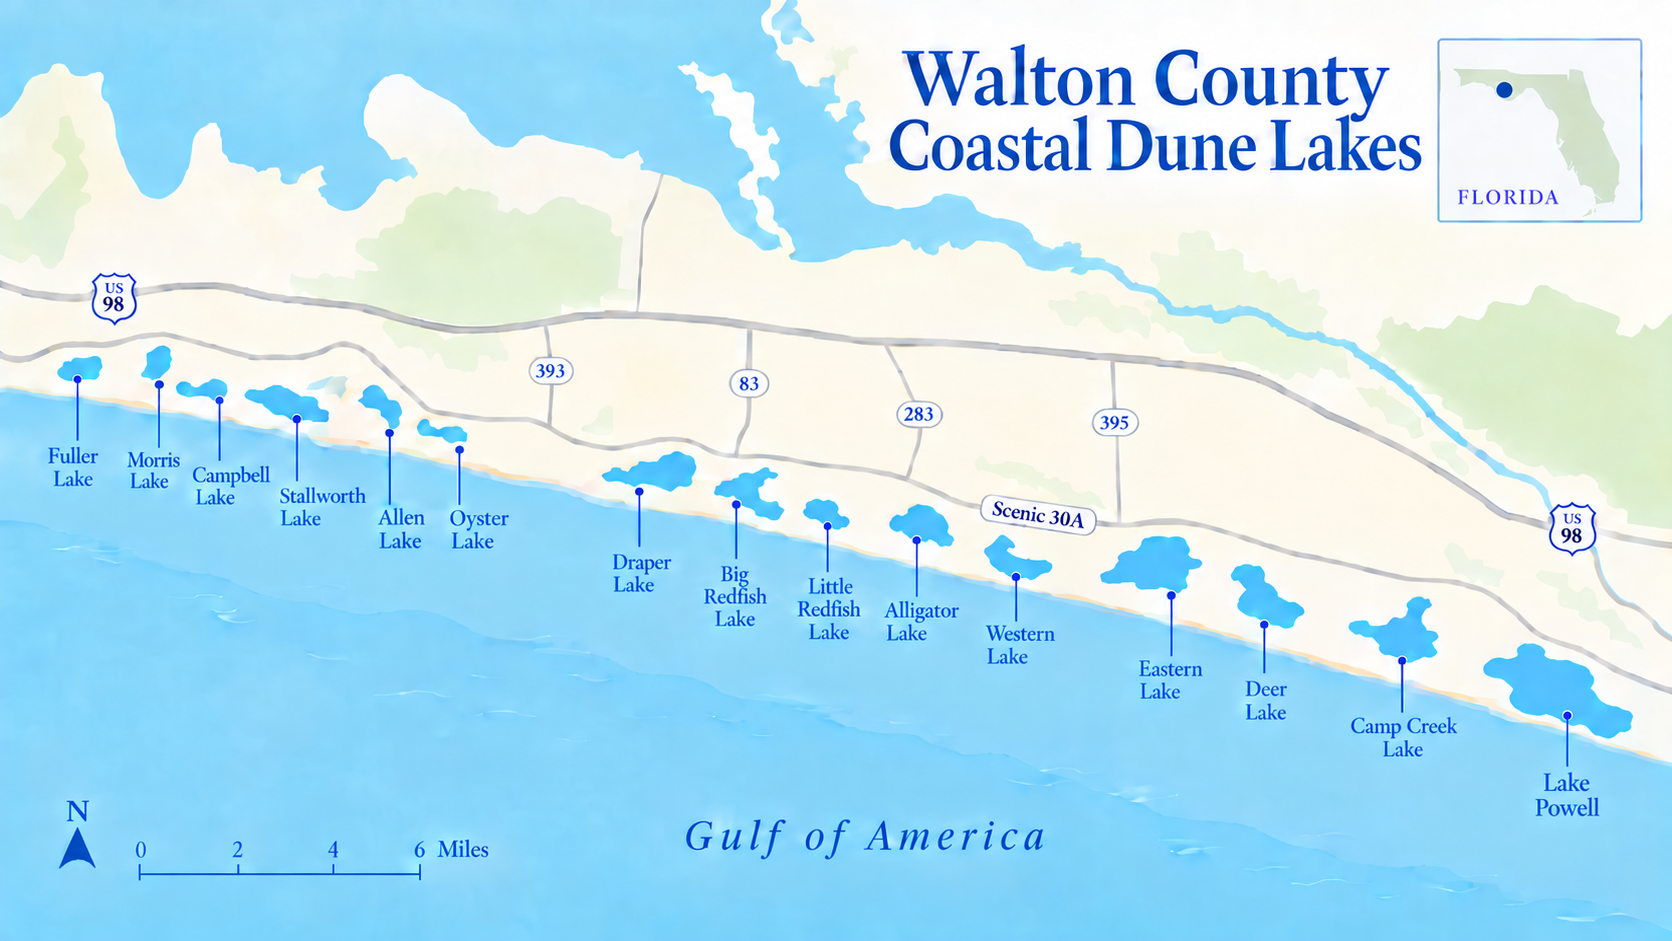
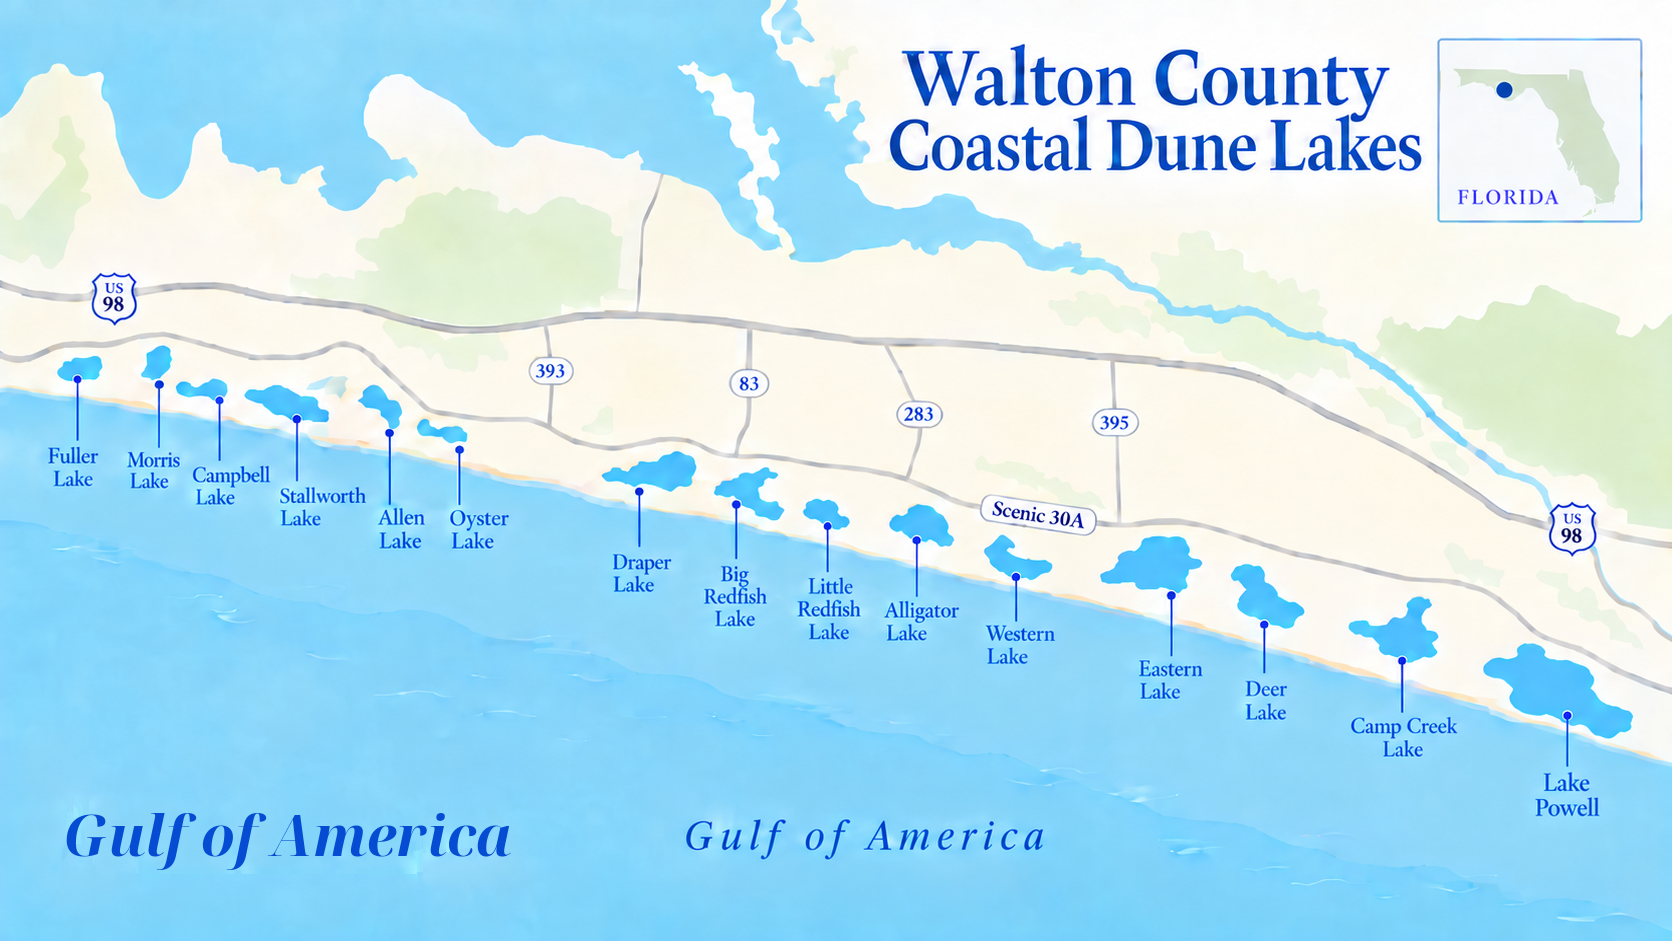
Add satellite map D-pad and rename Gulf of America
* Add a satellite map D-pad for pan and zoom

Left and right move along the coast, and up and down zoom the satellite photo on the homepage and the lakes index. The illustration map is unchanged.

* Rename the Gulf water label to Gulf of America

The satellite overlay and the illustrated map now say Gulf of America on the homepage and the lakes index.

---------

Changed region(s): [[0.0311, 0.8629, 0.311, 0.9245]]

diff --git a/site.js b/site.js
@@ -39,7 +39,67 @@
     var buttons = frame.querySelectorAll("[data-map-mode]");
     var panels = frame.querySelectorAll("[data-map-panel]");
     var scroll = frame.querySelector(".map-scroll");
+    var pad = frame.querySelector(".map-pad");
     if (!buttons.length || !panels.length) return;
+
+    var zoom = 1;
+
+    function prefersStill() {
+      return window.matchMedia("(prefers-reduced-motion: reduce)").matches;
+    }
+
+    function designWidth() {
+      return Math.max(1860, frame.clientWidth || 0);
+    }
+
+    function zoomSteps() {
+      var design = designWidth();
+      var view = scroll ? scroll.clientWidth : design;
+      var floor = Math.max(view, Math.min(design, 1020));
+      var fit = floor / design;
+      var list = [];
+      if (fit < 0.97) list.push(Math.round(fit * 1000) / 1000);
+      [1, 1.45, 2, 2.65].forEach(function (step) {
+        if (!list.length || step - list[list.length - 1] > 0.03) list.push(step);
+      });
+      return list;
+    }
+
+    function nearestStep(list, value) {
+      var best = 0;
+      var bestDist = Infinity;
+      list.forEach(function (step, index) {
+        var dist = Math.abs(step - value);
+        if (dist < bestDist) {
+          best = index;
+          bestDist = dist;
+        }
+      });
+      return best;
+    }
+
+    function applyZoomStyles() {
+      var sat = frame.querySelector(".satellite-map");
+      if (!sat || !scroll) return;
+      if (!frame.classList.contains("is-satellite") || Math.abs(zoom - 1) < 0.001) {
+        sat.style.width = "";
+        sat.style.minWidth = "";
+        scroll.style.maxHeight = "";
+        scroll.style.overflowY = "";
+        return;
+      }
+      var base = designWidth();
+      var width = Math.round(base * zoom);
+      sat.style.width = width + "px";
+      sat.style.minWidth = width + "px";
+      if (zoom > 1) {
+        scroll.style.maxHeight = Math.round(base * 1100 / 3000) + "px";
+        scroll.style.overflowY = "auto";
+      } else {
+        scroll.style.maxHeight = "";
+        scroll.style.overflowY = "";
+      }
+    }
 
     function updateEastEnd() {
       if (!scroll || !frame.classList.contains("is-satellite")) {
@@ -48,6 +108,61 @@
       }
       var remaining = scroll.scrollWidth - scroll.clientWidth - scroll.scrollLeft;
       frame.classList.toggle("is-east-end", remaining < 32);
+    }
+
+    function updatePad() {
+      if (!pad || !scroll) return;
+      var list = zoomSteps();
+      var index = nearestStep(list, zoom);
+      var maxLeft = Math.max(0, scroll.scrollWidth - scroll.clientWidth);
+      var west = pad.querySelector('[data-map-move="west"]');
+      var east = pad.querySelector('[data-map-move="east"]');
+      var zoomIn = pad.querySelector('[data-map-move="in"]');
+      var zoomOut = pad.querySelector('[data-map-move="out"]');
+      if (west) west.disabled = scroll.scrollLeft <= 2;
+      if (east) east.disabled = maxLeft - scroll.scrollLeft <= 2;
+      if (zoomIn) zoomIn.disabled = index >= list.length - 1;
+      if (zoomOut) zoomOut.disabled = index <= 0;
+    }
+
+    function syncMap() {
+      applyZoomStyles();
+      updateEastEnd();
+      updatePad();
+    }
+
+    function pan(direction) {
+      if (!scroll || !frame.classList.contains("is-satellite")) return;
+      var amount = Math.max(140, Math.round(scroll.clientWidth * 0.42));
+      scroll.scrollBy({
+        left: direction * amount,
+        behavior: prefersStill() ? "auto" : "smooth"
+      });
+    }
+
+    function changeZoom(direction) {
+      if (!scroll || !frame.classList.contains("is-satellite")) return;
+      var list = zoomSteps();
+      var index = nearestStep(list, zoom);
+      var next = index + direction;
+      if (next < 0 || next >= list.length) return;
+      var previous = zoom;
+      var anchorX = scroll.scrollLeft + scroll.clientWidth / 2;
+      var anchorY = scroll.scrollTop + scroll.clientHeight / 2;
+      zoom = list[next];
+      applyZoomStyles();
+      var ratio = previous ? zoom / previous : 1;
+      scroll.scrollLeft = anchorX * ratio - scroll.clientWidth / 2;
+      scroll.scrollTop = anchorY * ratio - scroll.clientHeight / 2;
+      updateEastEnd();
+      updatePad();
+    }
+
+    function moveMap(move) {
+      if (move === "west") pan(-1);
+      else if (move === "east") pan(1);
+      else if (move === "in") changeZoom(1);
+      else if (move === "out") changeZoom(-1);
     }
 
     function setMode(mode) {
@@ -68,14 +183,46 @@
         var active = frame.querySelector('[data-map-panel="' + mode + '"]');
         var label = active && active.getAttribute("data-map-label");
         if (label) scroll.setAttribute("aria-label", label);
-        window.requestAnimationFrame(updateEastEnd);
       }
+      window.requestAnimationFrame(syncMap);
     }
 
     if (scroll) {
-      scroll.addEventListener("scroll", updateEastEnd, { passive: true });
-      window.addEventListener("resize", updateEastEnd);
+      scroll.addEventListener("scroll", function () {
+        updateEastEnd();
+        updatePad();
+      }, { passive: true });
+      scroll.addEventListener("keydown", function (event) {
+        if (!frame.classList.contains("is-satellite")) return;
+        if (event.altKey || event.ctrlKey || event.metaKey) return;
+        var move = { ArrowLeft: "west", ArrowRight: "east", ArrowUp: "in", ArrowDown: "out" }[event.key];
+        if (!move) return;
+        event.preventDefault();
+        moveMap(move);
+      });
     }
+
+    if (pad) {
+      pad.addEventListener("click", function (event) {
+        var button = event.target.closest("button");
+        if (!button || button.disabled || !pad.contains(button)) return;
+        moveMap(button.getAttribute("data-map-move"));
+      });
+      pad.addEventListener("keydown", function (event) {
+        if (event.altKey || event.ctrlKey || event.metaKey) return;
+        var move = { ArrowLeft: "west", ArrowRight: "east", ArrowUp: "in", ArrowDown: "out" }[event.key];
+        if (!move) return;
+        event.preventDefault();
+        moveMap(move);
+      });
+    }
+
+    window.addEventListener("resize", function () {
+      if (frame.classList.contains("is-satellite") && zoom < 0.98) {
+        zoom = zoomSteps()[0];
+      }
+      syncMap();
+    });
 
     buttons.forEach(function (button) {
       button.addEventListener("click", function () {

diff --git a/index.html b/index.html
@@ -312,7 +312,22 @@
     </div>
   </div>
   <div class="map-viewport">
-  <div class="map-scroll" tabindex="0" role="region" aria-label="Illustrated map of the coastal dune lakes from west to east. Scroll horizontally on a small screen.">
+  <div class="map-pad" role="group" aria-label="Satellite map controls" aria-controls="coast-map-scroll">
+    <button type="button" class="map-pad-btn" data-map-move="in" aria-label="Zoom in">
+      <svg viewBox="0 0 12 12" aria-hidden="true" focusable="false"><path d="M6 2.2 10.2 8.2H1.8z"/></svg>
+    </button>
+    <button type="button" class="map-pad-btn" data-map-move="west" aria-label="Pan west">
+      <svg viewBox="0 0 12 12" aria-hidden="true" focusable="false"><path d="M2.2 6l6-4.2v8.4z"/></svg>
+    </button>
+    <button type="button" class="map-pad-btn" data-map-move="east" aria-label="Pan east">
+      <svg viewBox="0 0 12 12" aria-hidden="true" focusable="false"><path d="M9.8 6 3.8 10.2V1.8z"/></svg>
+    </button>
+    <button type="button" class="map-pad-btn" data-map-move="out" aria-label="Zoom out">
+      <svg viewBox="0 0 12 12" aria-hidden="true" focusable="false"><path d="M6 9.8 1.8 3.8h8.4z"/></svg>
+    </button>
+    <span class="map-pad-hub" aria-hidden="true"></span>
+  </div>
+  <div class="map-scroll" id="coast-map-scroll" tabindex="0" role="region" aria-label="Illustrated map of the coastal dune lakes from west to east. Scroll horizontally on a small screen.">
     <div class="coast-map illustrated-map" data-map-panel="illustration" data-map-label="Illustrated map of the coastal dune lakes from west to east. Scroll horizontally on a small screen.">
       <img src="images/dune-lakes-map.png" width="1672" height="941" alt="Illustrated map of Walton County’s coastal dune lakes, from Fuller Lake in the west to Lake Powell in the east." decoding="async">
       <svg class="lake-overlay" viewBox="0 0 1672 941" role="group" aria-label="Lakes on the map">
@@ -393,14 +408,14 @@
         </a>
       </svg>
     </div>
-    <div class="coast-map satellite-map" data-map-panel="satellite" data-map-label="Satellite map of the coastal dune lakes from Fuller Lake to Lake Powell. Scroll horizontally to reach the eastern lakes." hidden>
+    <div class="coast-map satellite-map" data-map-panel="satellite" data-map-label="Satellite map of the coastal dune lakes from Fuller Lake to Lake Powell. Scroll horizontally to reach the eastern lakes. Arrow keys pan and zoom when this map is focused." hidden>
       <picture>
         <source srcset="images/dune-lakes-satellite.webp" type="image/webp">
         <img src="images/dune-lakes-satellite.jpg" width="3000" height="1100" alt="Satellite view of Walton County’s coastal dune lakes, from Fuller Lake in the west to Lake Powell in the east." decoding="async">
       </picture>
       <svg class="lake-overlay" viewBox="0 0 3000 1100" role="group" aria-label="Lakes on the satellite map">
         <text class="map-place" x="2343" y="50" aria-hidden="true">Walton County Coastal Dune Lakes</text>
-        <text class="map-place gulf-label" x="70" y="1069" aria-hidden="true">Gulf of Mexico</text>
+        <text class="map-place gulf-label" x="70" y="1069" aria-hidden="true">Gulf of America</text>
         <a class="lake-link" data-lake="fuller" href="lakes/fuller/">
           <path class="lake-hit" d="M 124 96 L 107 96 L 108 105 L 100 113 L 100 128 L 92 139 L 117 135 L 123 130 L 123 121 L 130 117 Z"/>
           <rect class="lake-hit" x="23" y="161" width="109" height="33"/>

diff --git a/lakes/index.html b/lakes/index.html
@@ -200,7 +200,22 @@
     </div>
   </div>
   <div class="map-viewport">
-  <div class="map-scroll" tabindex="0" role="region" aria-label="Illustrated map of the coastal dune lakes from west to east.">
+  <div class="map-pad" role="group" aria-label="Satellite map controls" aria-controls="coast-map-scroll">
+    <button type="button" class="map-pad-btn" data-map-move="in" aria-label="Zoom in">
+      <svg viewBox="0 0 12 12" aria-hidden="true" focusable="false"><path d="M6 2.2 10.2 8.2H1.8z"/></svg>
+    </button>
+    <button type="button" class="map-pad-btn" data-map-move="west" aria-label="Pan west">
+      <svg viewBox="0 0 12 12" aria-hidden="true" focusable="false"><path d="M2.2 6l6-4.2v8.4z"/></svg>
+    </button>
+    <button type="button" class="map-pad-btn" data-map-move="east" aria-label="Pan east">
+      <svg viewBox="0 0 12 12" aria-hidden="true" focusable="false"><path d="M9.8 6 3.8 10.2V1.8z"/></svg>
+    </button>
+    <button type="button" class="map-pad-btn" data-map-move="out" aria-label="Zoom out">
+      <svg viewBox="0 0 12 12" aria-hidden="true" focusable="false"><path d="M6 9.8 1.8 3.8h8.4z"/></svg>
+    </button>
+    <span class="map-pad-hub" aria-hidden="true"></span>
+  </div>
+  <div class="map-scroll" id="coast-map-scroll" tabindex="0" role="region" aria-label="Illustrated map of the coastal dune lakes from west to east.">
     <div class="coast-map illustrated-map" data-map-panel="illustration" data-map-label="Illustrated map of the coastal dune lakes from west to east.">
       <img src="../images/dune-lakes-map.png" width="1672" height="941" alt="Illustrated map of Walton County’s coastal dune lakes, from Fuller Lake in the west to Lake Powell in the east." decoding="async">
       <svg class="lake-overlay" viewBox="0 0 1672 941" role="group" aria-label="Lakes on the map">
@@ -281,14 +296,14 @@
         </a>
       </svg>
     </div>
-    <div class="coast-map satellite-map" data-map-panel="satellite" data-map-label="Satellite map of the coastal dune lakes from Fuller Lake to Lake Powell. Scroll horizontally to reach the eastern lakes." hidden>
+    <div class="coast-map satellite-map" data-map-panel="satellite" data-map-label="Satellite map of the coastal dune lakes from Fuller Lake to Lake Powell. Scroll horizontally to reach the eastern lakes. Arrow keys pan and zoom when this map is focused." hidden>
       <picture>
         <source srcset="../images/dune-lakes-satellite.webp" type="image/webp">
         <img src="../images/dune-lakes-satellite.jpg" width="3000" height="1100" alt="Satellite view of Walton County’s coastal dune lakes, from Fuller Lake in the west to Lake Powell in the east." decoding="async">
       </picture>
       <svg class="lake-overlay" viewBox="0 0 3000 1100" role="group" aria-label="Lakes on the satellite map">
         <text class="map-place" x="2343" y="50" aria-hidden="true">Walton County Coastal Dune Lakes</text>
-        <text class="map-place gulf-label" x="70" y="1069" aria-hidden="true">Gulf of Mexico</text>
+        <text class="map-place gulf-label" x="70" y="1069" aria-hidden="true">Gulf of America</text>
         <a class="lake-link" data-lake="fuller" href="fuller/">
           <path class="lake-hit" d="M 124 96 L 107 96 L 108 105 L 100 113 L 100 128 L 92 139 L 117 135 L 123 130 L 123 121 L 130 117 Z"/>
           <rect class="lake-hit" x="23" y="161" width="109" height="33"/>

diff --git a/styles.css b/styles.css
@@ -462,6 +462,7 @@ p { text-wrap: pretty; }
 .map-frame.is-satellite .map-scroll {
   scrollbar-color: #0f3d4c #e7f2f0;
   scrollbar-width: auto;
+  overscroll-behavior: contain;
 }
 .map-frame.is-satellite .map-scroll::-webkit-scrollbar { height: 12px; }
 .map-frame.is-satellite .map-scroll::-webkit-scrollbar-track { background: #e7f2f0; }
@@ -488,6 +489,63 @@ p { text-wrap: pretty; }
 }
 .map-more::after { content: " \2192"; }
 .map-frame.is-satellite:not(.is-east-end) .map-more { display: block; }
+.map-pad {
+  display: none;
+  position: absolute;
+  z-index: 3;
+  left: 1.1rem;
+  bottom: 2.9rem;
+  grid-template-columns: repeat(3, 2.35rem);
+  grid-template-rows: repeat(3, 2.35rem);
+  gap: 0.28rem;
+  margin: 0;
+  padding: 0;
+  pointer-events: none;
+}
+.map-frame.is-satellite .map-pad { display: grid; }
+.map-pad-btn {
+  pointer-events: auto;
+  appearance: none;
+  margin: 0;
+  padding: 0;
+  display: grid;
+  place-items: center;
+  border: 1px solid rgba(16, 46, 54, 0.35);
+  border-radius: 8px;
+  background: rgba(255, 252, 246, 0.94);
+  color: #102e36;
+  box-shadow: 0 6px 16px rgba(8, 24, 32, 0.28);
+  cursor: pointer;
+  touch-action: manipulation;
+}
+.map-pad-btn svg {
+  width: 0.85rem;
+  height: 0.85rem;
+  display: block;
+  fill: currentColor;
+}
+.map-pad-btn:hover { background: #f4e1a6; }
+.map-pad-btn:active { background: #e4cd86; }
+.map-pad-btn:focus-visible {
+  outline: 2px solid #fff;
+  outline-offset: 2px;
+}
+.map-pad-btn:disabled {
+  opacity: 0.38;
+  cursor: default;
+  background: rgba(255, 252, 246, 0.72);
+}
+.map-pad-btn[data-map-move="in"] { grid-column: 2; grid-row: 1; }
+.map-pad-btn[data-map-move="west"] { grid-column: 1; grid-row: 2; }
+.map-pad-btn[data-map-move="east"] { grid-column: 3; grid-row: 2; }
+.map-pad-btn[data-map-move="out"] { grid-column: 2; grid-row: 3; }
+.map-pad-hub {
+  grid-column: 2;
+  grid-row: 2;
+  border-radius: 8px;
+  background: rgba(8, 38, 49, 0.38);
+  box-shadow: inset 0 0 0 1px rgba(255, 252, 246, 0.38);
+}
 .map-east-note {
   display: none;
   margin: 0;
@@ -1414,7 +1472,8 @@ button.button:disabled {
 
 @media print {
   .site-header { position: static; }
-  .menu-toggle { display: none; }
+  .menu-toggle,
+  .map-frame.is-satellite .map-pad { display: none; }
   .nav { display: flex !important; }
   .hero-photo, .lake-hero, .banner { min-height: 0; color: black; }
   .hero-photo::after, .lake-hero::after, .banner::after { display: none; }

diff --git a/README.md b/README.md
@@ -53,6 +53,6 @@ Do not commit the address or the API key in `wrangler.jsonc`. Until `CONTACT_EMA
 
 Slugs, west to east: `fuller`, `morris`, `campbell`, `stallworth`, `allen`, `oyster`, `draper`, `big-redfish`, `little-redfish`, `alligator`, `western`, `eastern`, `deer`, `camp-creek`, `powell`.
 
-Shared files are `styles.css`, `site.js` (menu, map highlighting, the illustration and satellite toggle, and the contact form), `header.js` (the site header and primary nav), and `footer.js` (the site footer). Edit `header.js` to change the brand and primary navigation on every page that has a header. Edit `footer.js` to change footer navigation on every page that has a footer. Partner logos are on the homepage only. Each script fills in relative hrefs from the page depth and marks the current page with `aria-current` where that page already did. Redirect pages do not load them. Photographs live in `images/`. `CREDITS.md` lists which pictures are a named lake, including the public-domain U.S. Geological Survey aerials in `images/lakes/`.
+Shared files are `styles.css`, `site.js` (menu, map highlighting, the illustration and satellite toggle, satellite pan and zoom, and the contact form), `header.js` (the site header and primary nav), and `footer.js` (the site footer). Edit `header.js` to change the brand and primary navigation on every page that has a header. Edit `footer.js` to change footer navigation on every page that has a footer. Partner logos are on the homepage only. Each script fills in relative hrefs from the page depth and marks the current page with `aria-current` where that page already did. Redirect pages do not load them. Photographs live in `images/`. `CREDITS.md` lists which pictures are a named lake, including the public-domain U.S. Geological Survey aerials in `images/lakes/`.
 
 Acreages are approximate and vary by source. Photo credits stay beside the pictures and in `CREDITS.md`. The footer notes that the site is an independent educational resource and links to the contact page. Partner logos for Friends of Scenic 30A and Scenic Walton are on the homepage only.
